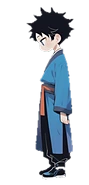
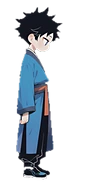
奕叡's painted doll walks the right way: its side view is flipped to face right

diff --git a/js/battle.js b/js/battle.js
@@ -20,14 +20,14 @@ import { AI_MAP } from './ai_art.js?v=8';
 // The AI-painted cards (assets/ai/map, front | side | back, 160 x 180 each), by Character Gallery id. A painted
 // card carries res: its pixels per stage pixel, so it stands as tall as the pixel art it replaces, drawn smoothed.
 const gidOf = (s) => (CAST[s] ? s : (ENEMIES[s] ? ART_OF(s) : s)).replace(/^(e|bx)_/, '');
-const aiCard = (s) => (AI_MAP.has(gidOf(s)) ? `assets/ai/map/${gidOf(s)}.webp?v=1` : null);
+const aiCard = (s) => (AI_MAP.has(gidOf(s)) ? `assets/ai/map/${gidOf(s)}.webp?v=2` : null);
 const FOE_RES = 2.5, ALLY_RES = 7.5;
 
 const sleep = (ms) => new Promise((r) => setTimeout(r, ms));
 const imgs = {};
 function img(src) { if (!imgs[src]) { imgs[src] = new Image(); imgs[src].src = src; } return imgs[src]; }
 export const ENEMY_IMG = 'assets/enemies.png?v=8';
-export function preloadBattleArt() { img(ENEMY_IMG); img(PEOPLE_IMAGE); for (const c of Object.values(CAST)) { img(c.portrait); img(c.sheet); } for (const g of AI_MAP) img(`assets/ai/map/${g}.webp?v=1`); }
+export function preloadBattleArt() { img(ENEMY_IMG); img(PEOPLE_IMAGE); for (const c of Object.values(CAST)) { img(c.portrait); img(c.sheet); } for (const g of AI_MAP) img(`assets/ai/map/${g}.webp?v=2`); }
 
 const SCENES = {   // backdrop strip colours (NES indexes): sky, far, near
   grass: [0x21, 0x1A, 0x0A], forest: [0x0A, 0x0B, 0x1A], hill: [0x21, 0x19, 0x09], sand: [0x31, 0x27, 0x17], swamp: [0x0C, 0x0B, 0x04],

diff --git a/js/doll_ai.js b/js/doll_ai.js
@@ -13,8 +13,8 @@ const load = (src) => new Promise((res) => { const i = new Image(); i.onload = (
 
 export function preloadDoll() {
   const jobs = [];
-  for (const v of VIEWS) if (DOLL.views[v]) jobs.push(load(`assets/ai/doll/${v}_base.webp?v=1`).then((i) => { imgs[v + '_base'] = i; }));
-  for (const [n, vs] of Object.entries(DOLL.layers)) for (const v of vs) jobs.push(load(`assets/ai/doll/${n}_${v}.webp?v=1`).then((i) => { imgs[n + '_' + v] = i; }));
+  for (const v of VIEWS) if (DOLL.views[v]) jobs.push(load(`assets/ai/doll/${v}_base.webp?v=2`).then((i) => { imgs[v + '_base'] = i; }));
+  for (const [n, vs] of Object.entries(DOLL.layers)) for (const v of vs) jobs.push(load(`assets/ai/doll/${n}_${v}.webp?v=2`).then((i) => { imgs[n + '_' + v] = i; }));
   return Promise.all(jobs).then(() => { ready = VIEWS.every((v) => !DOLL.views[v] || imgs[v + '_base']); });
 }
 export const dollReady = () => ready;

diff --git a/js/game.js b/js/game.js
@@ -33,7 +33,7 @@ export const aiPortrait = (s) => (AI_POR.has(gidOf(s)) ? `assets/ai/por/${gidOf(
 const aiCards = {};
 export function preloadAiCards() {
   const jobs = [];
-  for (const g of AI_MAP) if (!aiCards[g]) { aiCards[g] = 'loading'; jobs.push(loadImage(`assets/ai/map/${g}.webp?v=1`).then((img) => { if (img) { registerSheet('ai_' + g, img); aiCards[g] = 'ok'; } })); }
+  for (const g of AI_MAP) if (!aiCards[g]) { aiCards[g] = 'loading'; jobs.push(loadImage(`assets/ai/map/${g}.webp?v=2`).then((img) => { if (img) { registerSheet('ai_' + g, img); aiCards[g] = 'ok'; } })); }
   return Promise.all(jobs);
 }
 function aiLook(s) {

diff --git a/tools/ai_doll.py b/tools/ai_doll.py
@@ -205,7 +205,9 @@ def pack():
                 col = col.filter(ImageFilter.UnsharpMask(1, 60, 2))
             out = col.convert('RGBA'); out.putalpha(im.getchannel('A').resize(size, Image.LANCZOS))
             return out
-        # (his side base, seed 31, already looks right, the way the map's side views face)
+        if view == 'side':   # painted looking left (eye and nose on the left); the map's side views face right
+            fit0 = fit
+            fit = lambda im: fit0(im).transpose(Image.FLIP_LEFT_RIGHT)
         fit(base_rgba).save(os.path.join(dst, f'{view}_base.webp'), quality=92, method=6)
         for n, im in layers.items():
             fit(im).save(os.path.join(dst, f'{n}_{view}.webp'), quality=92, method=6)
